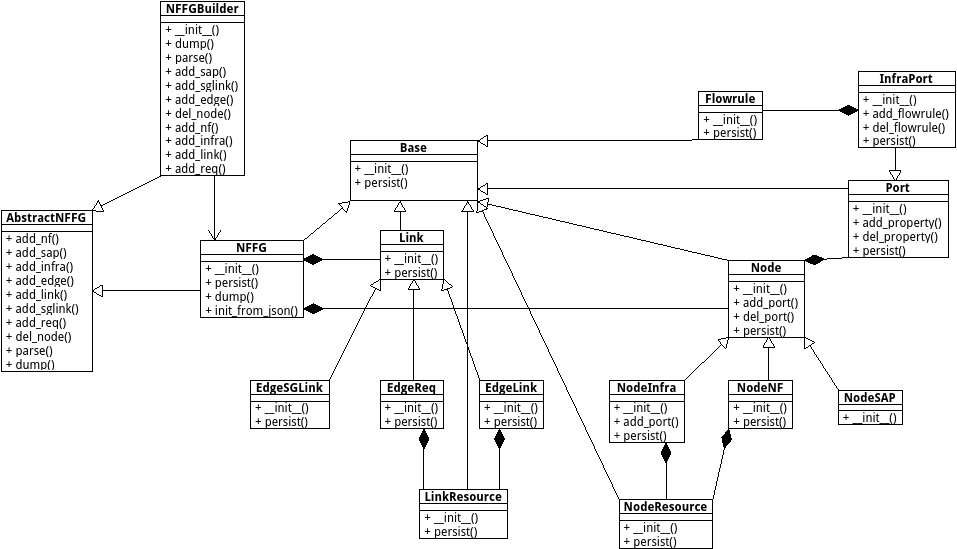
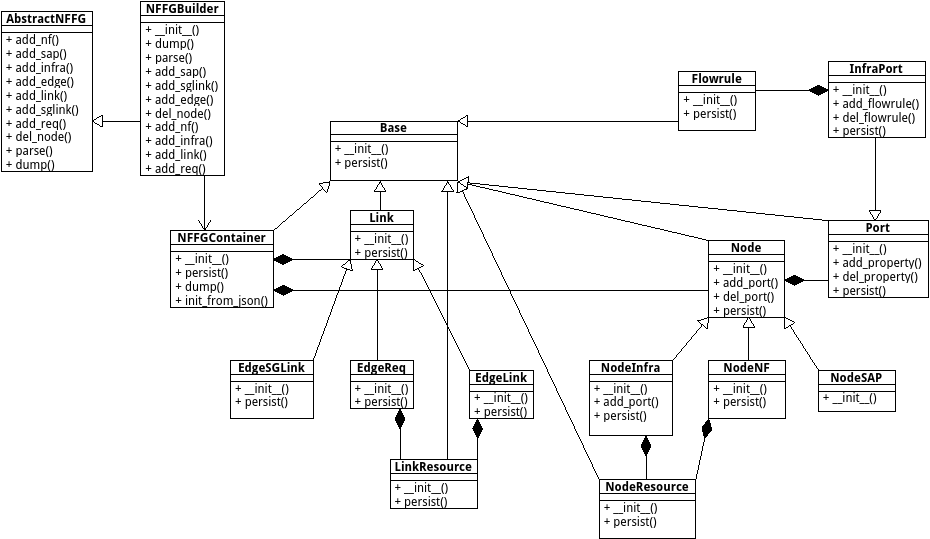
Define internal NFFG class Rename YANG based NFFG class to NFFGContainer Rename nffglib.py based Builder to XMLBasedNFFGBuilder Fix and finish nffg.yang based nffg_elements module Extend docs

diff --git a/pox/ext/escape/util/nffg_elements.py b/pox/ext/escape/util/nffg_elements.py
@@ -593,15 +593,11 @@ class EdgeReq(Link):
 # --------========== MAIN CONTAINER STARTS HERE =========-------------
 ################################################################################
 
-class NFFG(Base):
+class NFFGContainer(Base):
   """
   Container for a single NF-FG.
 
   Network Function Forwarding Graph (NF-FG) data model.
-
-  .. warning::
-
-    Not fully implemented yet!
   """
   # Default version
   VERSION = "1.0"
@@ -626,48 +622,38 @@ class NFFG(Base):
     :type version: str
     :return: None
     """
-    super(NFFG, self).__init__(ID=ID)
+    super(NFFGContainer, self).__init__(ID=ID)
     self.id = str(ID) if ID is not None else str(id(self))  # mandatory
     self.name = name
     self.version = str(version) if version is not None else self.VERSION
-    self.nfs = []
-    self.saps = []
-    self.infras = []
-    self.links = []
-    self.sg_nexts = []
-    self.reqs = []
+    self.node_nfs = []
+    self.node_saps = []
+    self.node_infras = []
+    self.edge_links = []
+    self.edge_sg_nexthops = []
+    self.edge_reqs = []
 
   def persist (self):
     nffg = {"parameters": {"id": self.id, "version": self.version}}
     if self.name is not None:
       nffg["parameters"]["name"] = str(self.name)
-    if self.nfs:
-      nffg["node_nfs"] = self.nfs
-    if self.saps:
-      nffg["node_saps"] = self.saps
-    if self.infras:
-      nffg["node_infras"] = self.infras
-    if self.links:
-      nffg["edge_links"] = self.links
-    if self.sg_nexts:
-      nffg["edge_sg_nexthops"] = self.sg_nexts
-    if self.reqs:
-      nffg["edge_reqs"] = self.reqs
+    if self.node_nfs:
+      nffg["node_nfs"] = [nf.persist() for nf in self.node_nfs]
+    if self.node_saps:
+      nffg["node_saps"] = [sap.persist() for sap in self.node_saps]
+    if self.node_infras:
+      nffg["node_infras"] = [infra.persist() for infra in self.node_infras]
+    if self.edge_links:
+      nffg["edge_links"] = [link.persist() for link in self.edge_links]
+    if self.edge_sg_nexthops:
+      nffg["edge_sg_nexthops"] = [sg.persist() for sg in self.edge_sg_nexthops]
+    if self.edge_reqs:
+      nffg["edge_reqs"] = [req.persist() for req in self.edge_reqs]
     return nffg
 
   def dump (self):
     # Generate
     return json.dumps(self.persist(), indent=1)
-
-  def init_from_json (self, json_data):
-    """
-    Parse the NFFG object from JSON data.
-
-    :param json_data: NF-FG represented in JSON format
-    :type json_data: str
-    :return: None
-    """
-    return json.loads(json_data)
 
 
 if __name__ == "__main__":
@@ -712,13 +698,19 @@ if __name__ == "__main__":
   edge_req.reqs.bandwidth = "100Mbps"
   edge_req.reqs.delay = "5ms"
   # Generate
-  print json.dumps(nf.persist(), indent=1, sort_keys=True)
-  print json.dumps(sap.persist(), indent=1, sort_keys=True)
-  print json.dumps(infra.persist(), indent=1, sort_keys=True)
-  print json.dumps(edge_link.persist(), indent=1, sort_keys=True)
-  print json.dumps(edge_sg.persist(), indent=1, sort_keys=True)
-  print json.dumps(edge_req.persist(), indent=1, sort_keys=True)
+  # print json.dumps(nf.persist(), indent=1, sort_keys=True)
+  # print json.dumps(sap.persist(), indent=1, sort_keys=True)
+  # print json.dumps(infra.persist(), indent=1, sort_keys=True)
+  # print json.dumps(edge_link.persist(), indent=1, sort_keys=True)
+  # print json.dumps(edge_sg.persist(), indent=1, sort_keys=True)
+  # print json.dumps(edge_req.persist(), indent=1, sort_keys=True)
 
-  nffg = NFFG()
+  nffg = NFFGContainer()
   nffg.name = "NFFG1"
+  nffg.node_infras.append(infra)
+  nffg.node_nfs.append(nf)
+  nffg.node_saps.append(sap)
+  nffg.edge_links.append(edge_link)
+  nffg.edge_sg_nexthops.append(edge_sg)
+  nffg.edge_reqs.append(edge_req)
   print nffg.dump()

diff --git a/pox/ext/escape/util/nffg.py b/pox/ext/escape/util/nffg.py
@@ -16,34 +16,7 @@ Abstract class and implementation for basic operations with a single
 NF-FG, such as building, parsing, processing NF-FG, helper functions,
 etc.
 """
-# from escape.util.misc import enum
-
 from nffglib import *
-
-
-def enum (*sequential, **named):
-  """
-  Helper function to define enumeration. E.g.:
-
-  .. code-block:: python
-
-    >>> Numbers = enum(ONE=1, TWO=2, THREE='three')
-    >>> Numbers = enum('ZERO', 'ONE', 'TWO')
-    >>> Numbers.ONE
-    1
-    >>> Numbers.reversed[2]
-    'TWO'
-
-  :param sequential: support automatic enumeration
-  :type sequential: list
-  :param named: support definition with unique keys
-  :type named: dict
-  :return: Enum object
-  :rtype: dict
-  """
-  enums = dict(zip(sequential, range(len(sequential))), **named)
-  enums['reversed'] = dict((value, key) for key, value in enums.iteritems())
-  return type('enum', (), enums)
 
 
 class AbstractNFFG(object):
@@ -138,7 +111,44 @@ class AbstractNFFG(object):
     raise NotImplementedError("Not implemented yet!")
 
 
-class NFFGtoXMLBuilder(AbstractNFFG):
+class NFFG(AbstractNFFG):
+  """
+  Internal NFFG representation based on networkx.
+  """
+
+  def add_link (self, edge_link):
+    pass
+
+  def add_edge (self, src, dst, params=None):
+    pass
+
+  def add_nf (self, node_nf):
+    pass
+
+  def add_sglink (self, edge_sglink):
+    pass
+
+  def add_req (self, edge_req):
+    pass
+
+  def add_infra (self, node_infra):
+    pass
+
+  def add_sap (self, node_sap):
+    pass
+
+  def del_node (self, id):
+    pass
+
+  def dump (self):
+    pass
+
+  @staticmethod
+  def parse (data):
+    pass
+
+
+class XMLBasedNFFGBuilder(AbstractNFFG):
   """
   Builder class for construct an NFFG in XML format rely on ETH's nffglib.py.
 
@@ -162,14 +172,14 @@ class NFFGtoXMLBuilder(AbstractNFFG):
 
     :return: None
     """
-    super(NFFGtoXMLBuilder, self).__init__()
+    super(XMLBasedNFFGBuilder, self).__init__()
     # Init main container: virtualizer
     self.__virtualizer = Virtualizer()
     self.__virtualizer.g_idName = IdNameGroup(self.__virtualizer)
     # Add <id> tag
-    NFFGtoXMLBuilder.__UUID_NUM += 1
+    XMLBasedNFFGBuilder.__UUID_NUM += 1
     self.__virtualizer.g_idName.l_id = "UUID-ESCAPE-BME-%03d" % \
-                                       NFFGtoXMLBuilder.__UUID_NUM
+                                       XMLBasedNFFGBuilder.__UUID_NUM
     # Add <name> tag
     self.__virtualizer.g_idName.l_name = "ESCAPE-BME orchestrator version v2.0"
     # Add <nodes> tag
@@ -721,6 +731,15 @@ class NFFGBuilder(AbstractNFFG):
 
   @staticmethod
   def parse (data):
+    """
+    Parse the given JSON-formatted string and return the constructed
+    :any:`NFFG` object.
+
+    :param data: raw text formatted in JSON
+    :type data: str
+    :return: newly created NFFG object
+    :rtype: :any:`NFFG`
+    """
     pass
 
   ##############################################################################
@@ -770,7 +789,7 @@ if __name__ == "__main__":
   #                        bandwidth="10Gbps")
 
   # Generate same output as Agent_http.py
-  builder = NFFGtoXMLBuilder()
+  builder = XMLBasedNFFGBuilder()
   builder.id = "UUID-ETH-001"
   builder.name = "ETH OpenStack-OpenDaylight domain"
   infra = builder.add_infra(

diff --git a/pox/ext/doc/source/util/nffg_elements.rst b/pox/ext/doc/source/util/nffg_elements.rst
@@ -6,7 +6,7 @@ Element classes for NFFG.
 .. figure::  ../_static/nffg_elements.png
    :align:  center
 
-:any:`NFFG` represents the main container class.
+:any:`NFFGContainer` represents the main container class.
 
 :any:`Base` represents the common functions for elements.
 
